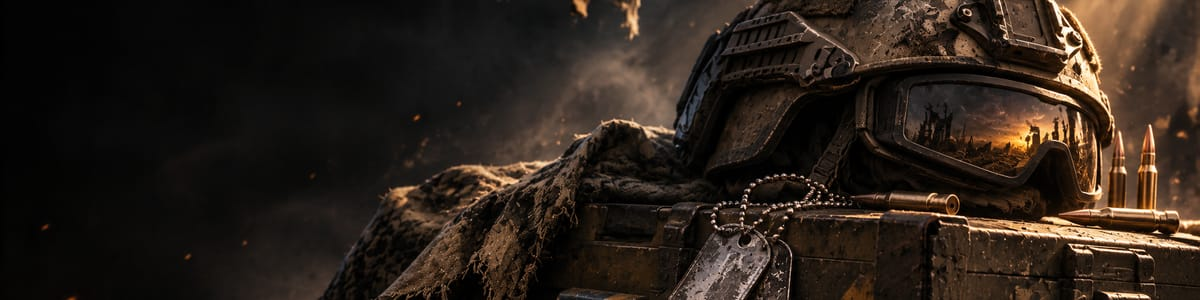
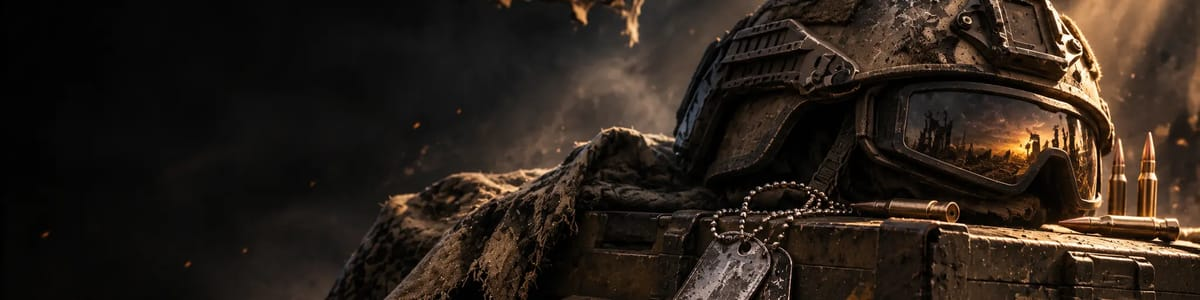
Cartes de visite : MVP du mois et MVP ×10 illustrées (#326)
* Cartes de visite : illustrations de MVP du mois et MVP ×10

* Cartes MVP : images inversées (casque couronné pour MVP du mois, soldat MVP pour MVP ×10)

* Cartes de visite : cadrage plus haut (têtes et sujets visibles dans le bandeau)

---------

diff --git a/src/lib/cards.js b/src/lib/cards.js
@@ -47,17 +47,17 @@ const CARDS = {
   "pass-s1-sentinelle": { rarity: "rare", art: { type: "glyph", glyph: "15", color: "#5cc8ff" } },
   "pass-s1-gardien": { rarity: "epique", art: { type: "illustration", glyph: "25", hue: "#8b5cf6" } },
   "pass-s1-pharaon": { rarity: "legendaire", art: { type: "illustration", glyph: "30", hue: "#f5b83d" } },
-  "premier-sang": { rarity: "commune", art: { type: "illustration", glyph: "1", hue: "#f87171", image: "/images/cartes/premier-sang.webp", og: "/images/cartes/og/premier-sang.jpg", position: "center", mobilePosition: "62% center" } },
-  domination: { rarity: "commune", art: { type: "illustration", glyph: "10", hue: "#d4af37", image: "/images/cartes/domination.webp", og: "/images/cartes/og/domination.jpg", position: "center", mobilePosition: "62% center" } },
-  veteran: { rarity: "commune", art: { type: "illustration", glyph: "50", hue: "#b8c2cf", image: "/images/cartes/veteran.webp", og: "/images/cartes/og/veteran.jpg", position: "center", mobilePosition: "62% center" } },
-  indestructible: { rarity: "rare", art: { type: "illustration", glyph: "×5", hue: "#5cc8ff", image: "/images/cartes/indestructible.webp", og: "/images/cartes/og/indestructible.jpg", position: "center", mobilePosition: "62% center" } },
-  "esprit-equipe": { rarity: "rare", art: { type: "illustration", glyph: "25", hue: "#4fd1b0", image: "/images/cartes/esprit-equipe.webp", og: "/images/cartes/og/esprit-equipe.jpg", position: "center", mobilePosition: "62% center" } },
-  "loup-solitaire": { rarity: "rare", art: { type: "illustration", glyph: "25", hue: "#cbd5e1", image: "/images/cartes/loup-solitaire.webp", og: "/images/cartes/og/loup-solitaire.jpg", position: "center", mobilePosition: "62% center" } },
-  polyvalent: { rarity: "rare", art: { type: "illustration", glyph: "4F", hue: "#93c5fd", image: "/images/cartes/polyvalent.webp", og: "/images/cartes/og/polyvalent.jpg", position: "center", mobilePosition: "62% center" } },
+  "premier-sang": { rarity: "commune", art: { type: "illustration", glyph: "1", hue: "#f87171", image: "/images/cartes/premier-sang.webp", og: "/images/cartes/og/premier-sang.jpg", position: "center 35%", mobilePosition: "62% center" } },
+  domination: { rarity: "commune", art: { type: "illustration", glyph: "10", hue: "#d4af37", image: "/images/cartes/domination.webp", og: "/images/cartes/og/domination.jpg", position: "center 25%", mobilePosition: "62% center" } },
+  veteran: { rarity: "commune", art: { type: "illustration", glyph: "50", hue: "#b8c2cf", image: "/images/cartes/veteran.webp", og: "/images/cartes/og/veteran.jpg", position: "center 45%", mobilePosition: "62% center" } },
+  indestructible: { rarity: "rare", art: { type: "illustration", glyph: "×5", hue: "#5cc8ff", image: "/images/cartes/indestructible.webp", og: "/images/cartes/og/indestructible.jpg", position: "center 25%", mobilePosition: "62% center" } },
+  "esprit-equipe": { rarity: "rare", art: { type: "illustration", glyph: "25", hue: "#4fd1b0", image: "/images/cartes/esprit-equipe.webp", og: "/images/cartes/og/esprit-equipe.jpg", position: "center 25%", mobilePosition: "62% center" } },
+  "loup-solitaire": { rarity: "rare", art: { type: "illustration", glyph: "25", hue: "#cbd5e1", image: "/images/cartes/loup-solitaire.webp", og: "/images/cartes/og/loup-solitaire.jpg", position: "center 25%", mobilePosition: "62% center" } },
+  polyvalent: { rarity: "rare", art: { type: "illustration", glyph: "4F", hue: "#93c5fd", image: "/images/cartes/polyvalent.webp", og: "/images/cartes/og/polyvalent.jpg", position: "center 25%", mobilePosition: "62% center" } },
   centurion: { rarity: "epique", art: { type: "illustration", glyph: "100", hue: "#a855f7", video: "/images/cartes/centurion.mp4", poster: "/images/cartes/centurion-poster.webp", cover: true, position: "center", mobilePosition: "41% center", og: "/images/cartes/og/centurion.jpg" } },
   invaincu: { rarity: "epique", art: { type: "illustration", glyph: "×10", hue: "#c084fc", image: "/images/cartes/invaincu.webp", og: "/images/cartes/og/invaincu.jpg", position: "45% center", mobilePosition: "36% center" } },
-  "mvp-du-mois": { rarity: "legendaire", art: { type: "illustration", glyph: "MVP", hue: "#facc15" } },
-  "mvp-10": { rarity: "rare", art: { type: "glyph", glyph: "MVP", color: "#facc15" } },
+  "mvp-du-mois": { rarity: "legendaire", art: { type: "illustration", glyph: "MVP", hue: "#facc15", image: "/images/cartes/mvp-du-mois.webp", og: "/images/cartes/og/mvp-du-mois.jpg", position: "center 25%", mobilePosition: "62% center" } },
+  "mvp-10": { rarity: "rare", art: { type: "illustration", glyph: "MVP", hue: "#facc15", image: "/images/cartes/mvp-10.webp", og: "/images/cartes/og/mvp-10.jpg", position: "center 25%", mobilePosition: "62% center" } },
   fondateur: { rarity: "legendaire", art: { type: "illustration", glyph: "F", hue: "#e8c26a", video: "/images/cartes/fondateur.mp4", og: "/images/cartes/og/fondateur.jpg", poster: "/images/cartes/fondateur-poster.webp", aspect: "480/546" } },
   beta: { rarity: "rare", art: { type: "glyph", glyph: "β", color: "#5cc8ff", video: "/images/cartes/beta.mp4", og: "/images/cartes/og/beta.jpg", poster: "/images/cartes/beta-poster.webp" } },
   partenaire: { rarity: "rare", art: { type: "glyph", glyph: "P", color: "#ff9a5c" } },

diff --git a/src/lib/releases.js b/src/lib/releases.js
@@ -6,6 +6,13 @@
 export const RELEASES = [
   {
     date: "2026-11-08",
+    title: "Cartes MVP illustrées",
+    items: [
+      { tag: "Classé", text: "Les cartes MVP du mois et MVP ×10 ont maintenant leur illustration." },
+    ],
+  },
+  {
+    date: "2026-11-08",
     title: "Sept cartes de visite illustrées",
     items: [
       { tag: "Classé", text: "Premier sang, Domination, Vétéran, Indestructible, Esprit d'équipe, Loup solitaire et Polyvalent ont maintenant leur illustration." },
